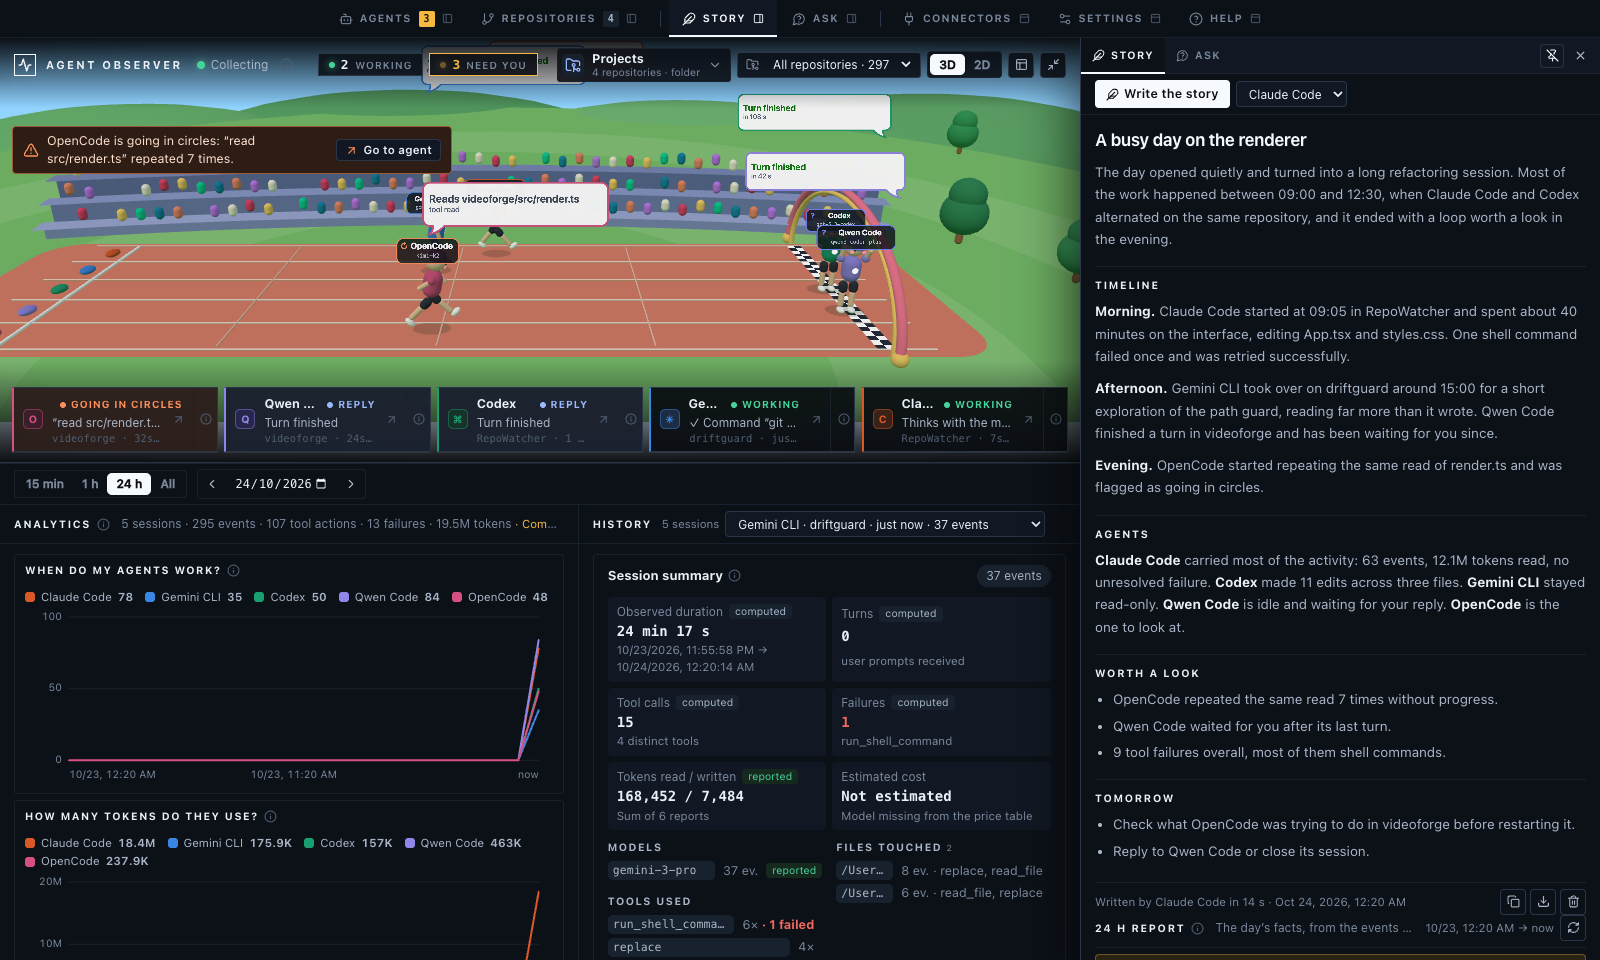
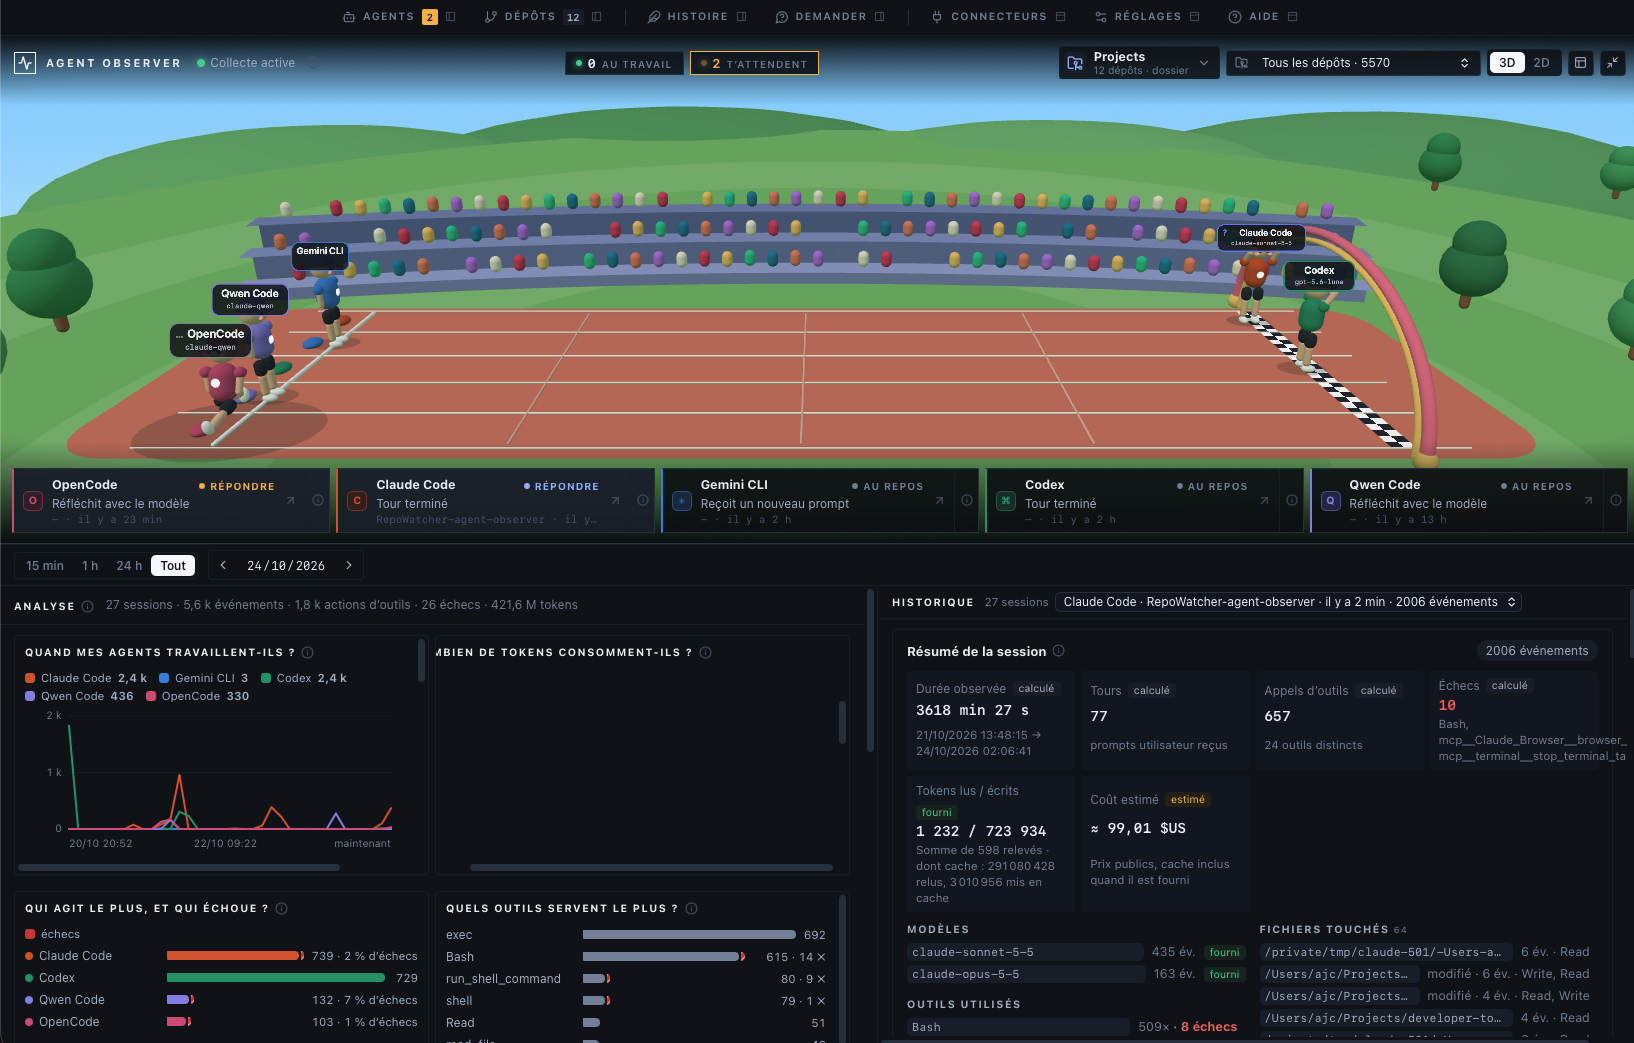
fix(race): name tags behind runners; docs and hero image up to date (0.6.2)

diff --git a/apps/desktop/src/ui/SprintTrack3D.tsx b/apps/desktop/src/ui/SprintTrack3D.tsx
@@ -720,8 +720,9 @@ function NameTag({ name, model, color, icon, renderOrder }: { name: string; mode
     return result;
   }, [name, model, color, icon]);
   useEffect(() => () => texture.dispose(), [texture]);
-  return <sprite position={[0, 1.36, 0]} scale={[1.5, 0.47, 1]} renderOrder={5 + renderOrder}>
-    <spriteMaterial map={texture} transparent depthTest={false} />
+  // Behind the runner and depth-tested: the body hides part of the tag, never the head.
+  return <sprite position={[0, 1.5, -0.55]} scale={[1.5, 0.47, 1]} renderOrder={5 + renderOrder}>
+    <spriteMaterial map={texture} transparent depthWrite={false} />
   </sprite>;
 }
 

diff --git a/README.fr.md b/README.fr.md
@@ -13,7 +13,7 @@ Gemini CLI, OpenCode et Qwen Code sur ta machine, en direct.
 
 [Télécharger](#installation) · [Fonctionnalités](#fonctionnalités) · [Confidentialité](#confidentialité) · [Compiler](#compiler-depuis-les-sources) · [Contribuer](CONTRIBUTING.md) · [English](README.md)
 
-<img src="docs/media/deck.png" alt="Agent Observer : une barre d’onglets, la course 3D avec son bandeau d’agents, graphiques et historique dessous, et le tiroir Histoire ouvert à droite" width="900">
+<img src="docs/media/deck.png" alt="Agent Observer : une barre d’onglets en haut, la course 3D avec son bandeau d’agents, puis graphiques et historique côte à côte" width="900">
 
 </div>
 
@@ -112,6 +112,11 @@ les faits (sessions, échecs, attentes, boucles, coûts) ; la réponse cite les 
 s’appuie sous la forme `[s3]` — un clic les ouvre dans l’historique — et peut finir par des **pistes** à copier
 vers un agent. L’app n’envoie jamais rien à un agent à ta place.
 
+Chaque session des faits liste les **fichiers que son agent a modifiés** (la réponse peut donc les nommer) et,
+pour les sessions principales, les **sujets des commits Git faits pendant qu’elle tournait** (lus en local).
+C’est ce qui permet de répondre à *« était-ce un correctif ou une fonctionnalité ? »* — comme une déduction :
+aucun agent ne l’enregistre, et un commit fait pendant une session n’est pas forcément celui de l’agent.
+
 Les messages d’erreur ne sont **pas enregistrés** par défaut : le « pourquoi » ne peut donc qu’être déduit.
 **Réglages › Ce qui est enregistré › Garder les messages d’erreur** garde une version courte (300 caractères),
 sur une ligne et nettoyée (clés, jetons, mots de passe et dossier personnel retirés) des erreurs des outils en
@@ -129,7 +134,7 @@ lancement suivant.
 <img src="docs/media/story.png" alt="Le tiroir Histoire : une courte histoire du jour avec chronologie, un paragraphe par agent et les points à regarder" width="900">
 
 **Comment Demander et l’histoire restent privés.** L’app calcule un résumé de faits (des chiffres et des noms de
-projets, de modèles, d’outils et de fichiers — jamais le texte de tes messages, tes commandes ni tes dossiers).
+projets, de modèles, d’outils, de fichiers et de sujets de commits — jamais le texte de tes messages, tes commandes ni tes dossiers).
 L’agent est lancé **une fois par demande, sans aucun outil, dans un dossier vide, sans garder de session**, avec
 la consigne de n’utiliser que ces faits. Rien n’est envoyé avant ton accord, une fois par agent, et tu peux lire
 le résumé exact avant. Aucune clé, rien à installer : c’est ton forfait qui est utilisé.
@@ -177,8 +182,8 @@ connectés — voir [ajouter un agent](#ajouter-ton-agent).
 ## Confidentialité
 
 Tout reste sur ton ordinateur. L’app ne fait aucune requête réseau de son propre chef : elle ne
-fait que recevoir des hooks sur `127.0.0.1`. La seule exception est l’**histoire du jour**,
-désactivée tant que tu ne l’autorises pas pour un agent : l’app lance alors cet agent (déjà
+fait que recevoir des hooks sur `127.0.0.1`. Les seules exceptions sont l’**histoire du jour** et **Demander**,
+désactivées tant que tu ne les autorises pas pour un agent : l’app lance alors cet agent (déjà
 installé, avec sa propre connexion) une seule fois, sans outil, dans un dossier vide, sur un
 résumé de chiffres et de noms ; l’agent l’envoie à son fournisseur comme tout ce que tu lui
 écris. Tu peux lire le résumé exact avant d’accepter.

diff --git a/README.md b/README.md
@@ -13,7 +13,7 @@ OpenCode and Qwen Code work on your machine, live.
 
 [Download](#install) · [Features](#features) · [Privacy](#privacy) · [Build from source](#build-from-source) · [Contributing](CONTRIBUTING.md) · [Français](README.fr.md)
 
-<img src="docs/media/deck.png" alt="Agent Observer: a bar of tabs, the 3D race with its dock of agents, charts and history below, and the Story drawer open on the right" width="900">
+<img src="docs/media/deck.png" alt="Agent Observer: a bar of tabs on top, the 3D race with its dock of agents, then charts and history side by side" width="900">
 
 </div>
 
@@ -108,6 +108,11 @@ failures, waits, loops, costs); the answer cites the sessions it relies on as `[
 the history — and may end with **suggested next steps** you can copy to an agent. The app never sends
 anything to an agent for you.
 
+Each session in the facts lists the **files its agent edited** (so an answer can name them) and, for the main
+sessions, the **subjects of the Git commits made while it ran** (read locally). That is how a question like
+*"was this a fix or a feature?"* can be answered — as an inference: no agent records it, and a commit made during
+a session is not proven to be the agent's.
+
 Error messages are **not recorded** by default, so "why" can only be inferred. **Settings › What is recorded ›
 Keep error messages** records a short (300 characters), single-line, cleaned version (keys, tokens, passwords
 and your home folder removed) of the errors of failed tools — Claude Code, Codex, Gemini CLI, Qwen Code and OpenCode, for failures from now on.
@@ -123,7 +128,7 @@ a time you choose (**18:00** by default). If the app was closed at that time, it
 <img src="docs/media/story.png" alt="The Story drawer: a short story of the day with a timeline, per-agent paragraphs and things worth a look" width="900">
 
 **How Ask and the story stay private.** The app computes a summary of facts (numbers and the names of projects,
-models, tools and files — never the text of your messages, your commands or your folders). The agent is run
+models, tools, files and commit subjects — never the text of your messages, your commands or your folders). The agent is run
 **once per request, with every tool switched off, in an empty folder, with no session kept**, and told to use
 only those facts. Nothing is sent before you agree, once per agent, and you can read the exact summary first.
 No key is needed and nothing extra is installed: it uses your plan.
@@ -170,8 +175,8 @@ now. GitHub Copilot, Cline, Roo Code, Continue and Aider are **not** connected y
 ## Privacy
 
 Everything stays on your computer. The app makes no network request of its own: it only
-receives hooks on `127.0.0.1`. The single exception is the **daily story**, which is off until you
-allow it for an agent: the app then runs that agent (already installed, with its own login)
+receives hooks on `127.0.0.1`. The only exceptions are the **daily story** and **Ask**, which are off until you
+allow them for an agent: the app then runs that agent (already installed, with its own login)
 once, with no tools, in an empty folder, on a summary of numbers and names; the agent sends it
 to its provider like anything you type to it. You can read the exact summary before agreeing.
 

diff --git a/SECURITY.md b/SECURITY.md
@@ -56,5 +56,5 @@ Out of scope:
 - Private content is dropped by the connectors before anything is written to disk.
 - No telemetry and no network request of its own. The only exceptions are the daily story and Ask, off by
   default and allowed per agent: the app runs an agent you already have, once, with its tools
-  disabled, in an empty folder, on a summary of numbers and names (never message text, commands
-  or folders). That agent talks to its own provider as it always does.
+  disabled, in an empty folder, on a summary of numbers and names — including the files an agent edited and the subjects of nearby Git
+  commits — (never message text, commands or folders). That agent talks to its own provider as it always does.

diff --git a/docs/media/README.md b/docs/media/README.md
@@ -4,7 +4,7 @@ Images used by the READMEs. Keep file names stable: the READMEs link to them.
 
 | File | What it shows | Used in |
 | --- | --- | --- |
-| `deck.png` | The whole interface with the Story drawer open on the right (1600 × 960). | README hero |
+| `deck.png` | The whole window with no drawer: tabs on top, race and dock, charts and history (1634 × 1043, French UI, real sessions). | README hero |
 | `overview.png` | The window with no drawer: race and dock, charts and history. | Features › The window |
 | `day.png` | A past day chosen in the period bar. | Features › Charts and history |
 | `agents.png` | The Agents drawer on the left. | Features › Drawers |

diff --git a/CHANGELOG.md b/CHANGELOG.md
@@ -7,6 +7,12 @@ and this project adheres to [Semantic Versioning](https://semver.org/spec/v2.0.0
 
 ## [Unreleased]
 
+## [0.6.2] - 2026-10-24
+
+### Changed
+- Race: the name tags now sit behind the runners instead of over them, so heads stay visible.
+- README: new hero image (the whole window), and the docs describe the files and commit subjects Ask uses.
+
 ## [0.6.1] - 2026-10-24
 
 ### Fixed
